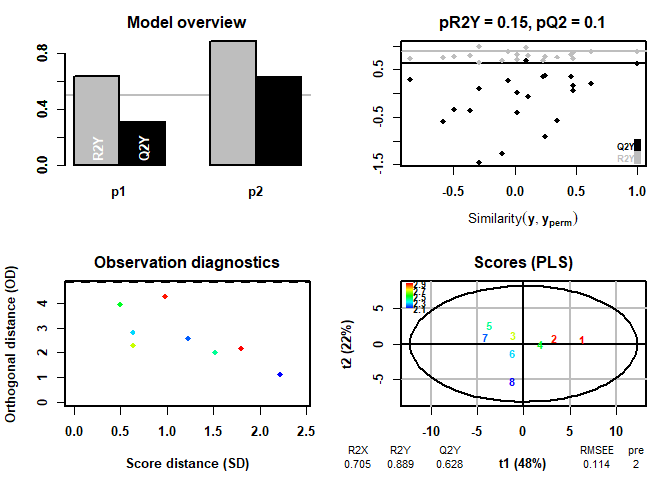
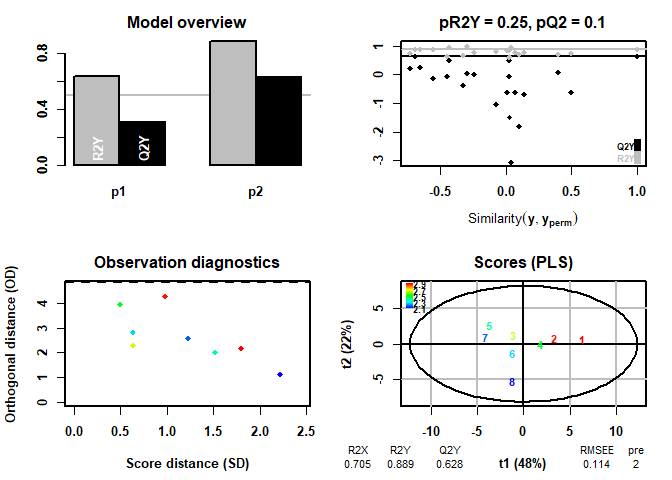
readme

diff --git a/README.md b/README.md
@@ -122,7 +122,7 @@ PLSR = ropls::opls(cytokines,
 #> 8 samples x 31 variables and 1 response
 #> standard scaling of predictors and response(s)
 #>       R2X(cum) R2Y(cum) Q2(cum) RMSEE pre ort pR2Y pQ2
-#> Total    0.705    0.889   0.628 0.114   2   0  0.4 0.1
+#> Total    0.705    0.889   0.628 0.114   2   0  0.5 0.2
 ```
 
 ![](tools/README-Run%20PLSR-1.png)
@@ -212,7 +212,7 @@ PLSR_LOOCV = opls_LOOCV(cytokines,
 #> 8 samples x 31 variables and 1 response
 #> standard scaling of predictors and response(s)
 #>       R2X(cum) R2Y(cum) Q2(cum) RMSEE pre ort pR2Y pQ2
-#> Total    0.705    0.889   0.628 0.114   2   0 0.15 0.1
+#> Total    0.705    0.889   0.628 0.114   2   0 0.25 0.1
 ```
 
 ![](tools/README-PLSR%20with%20LOOCV-1.png)
@@ -269,7 +269,6 @@ scatter_reg(x=PLSR_LOOCV_rot30$T1,y=predictor,
             xlab = "Scores on LV1",
             ylab = "Iba1 [a.u.]",
             title = "LV1 vs Iba1")
-#> `geom_smooth()` using formula 'y ~ x'
 ```
 
 ![](tools/README-Scatter_reg-1.png)
